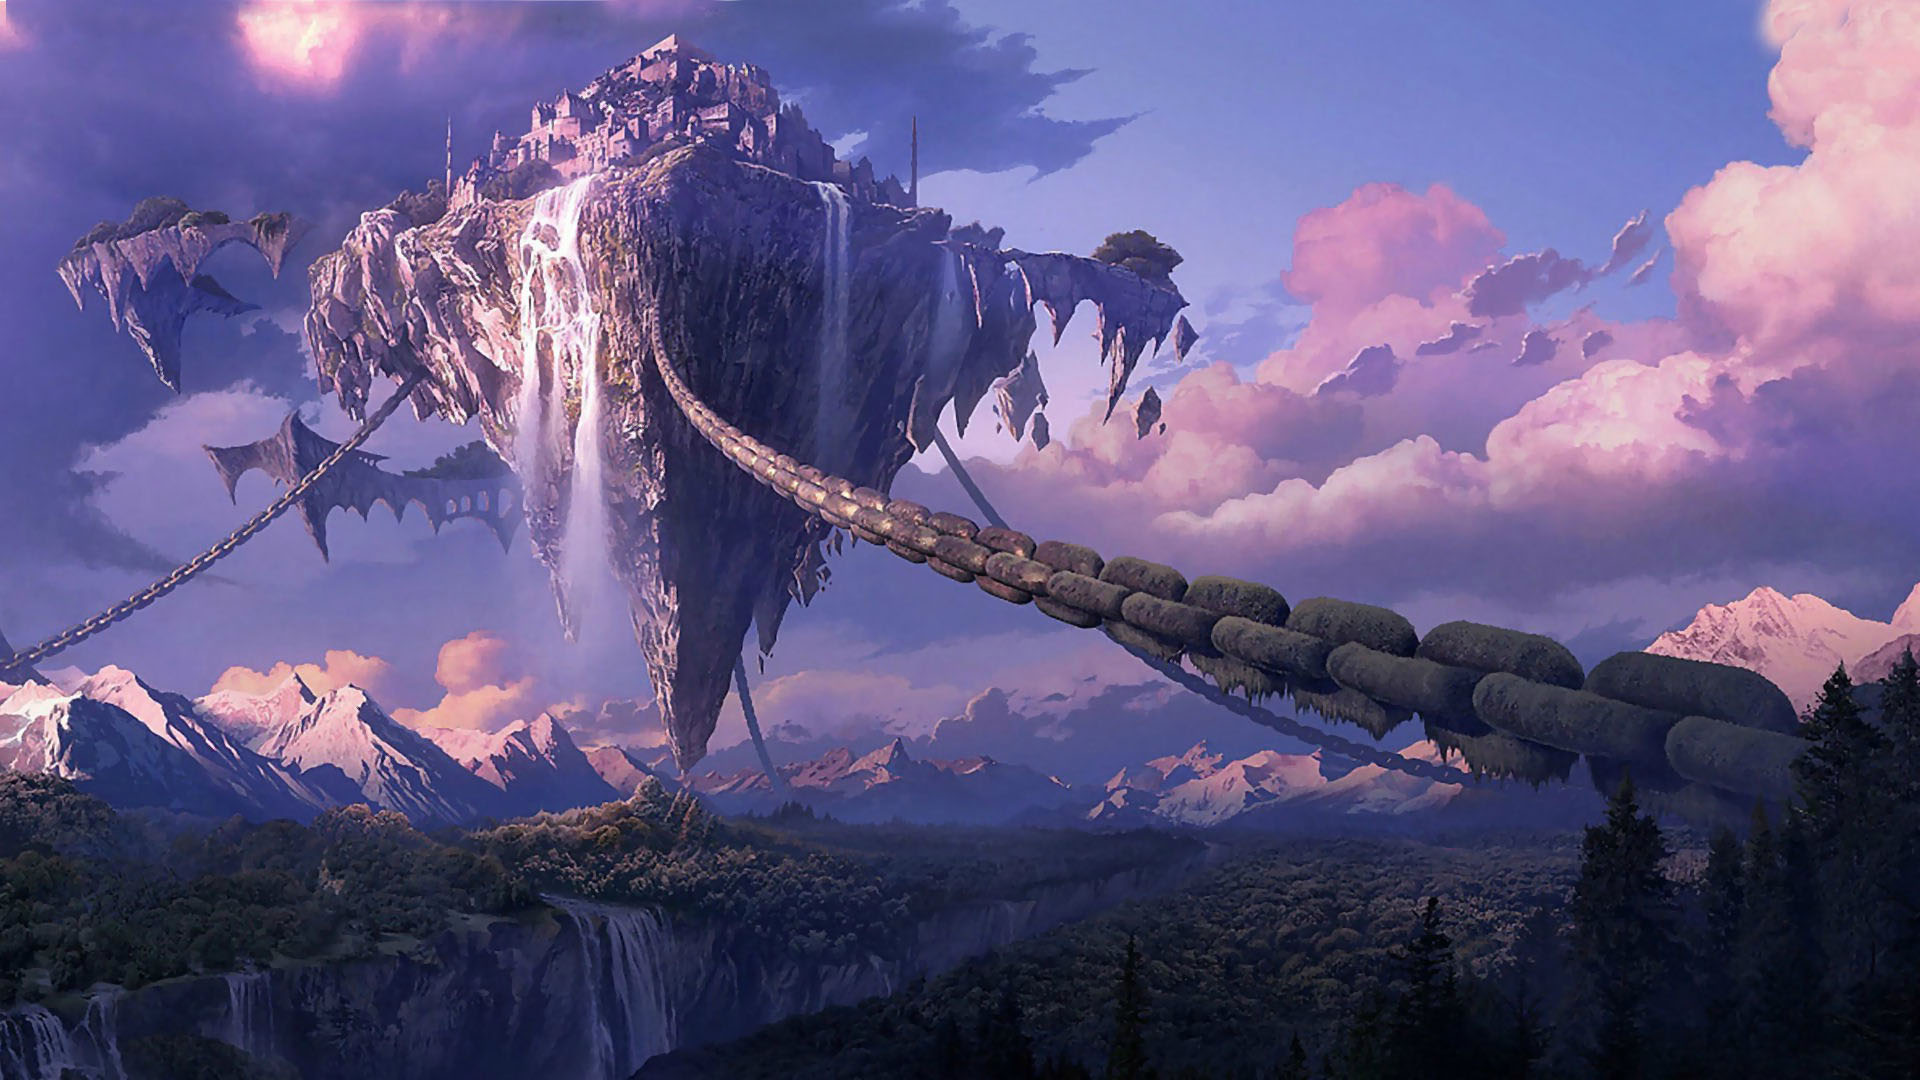
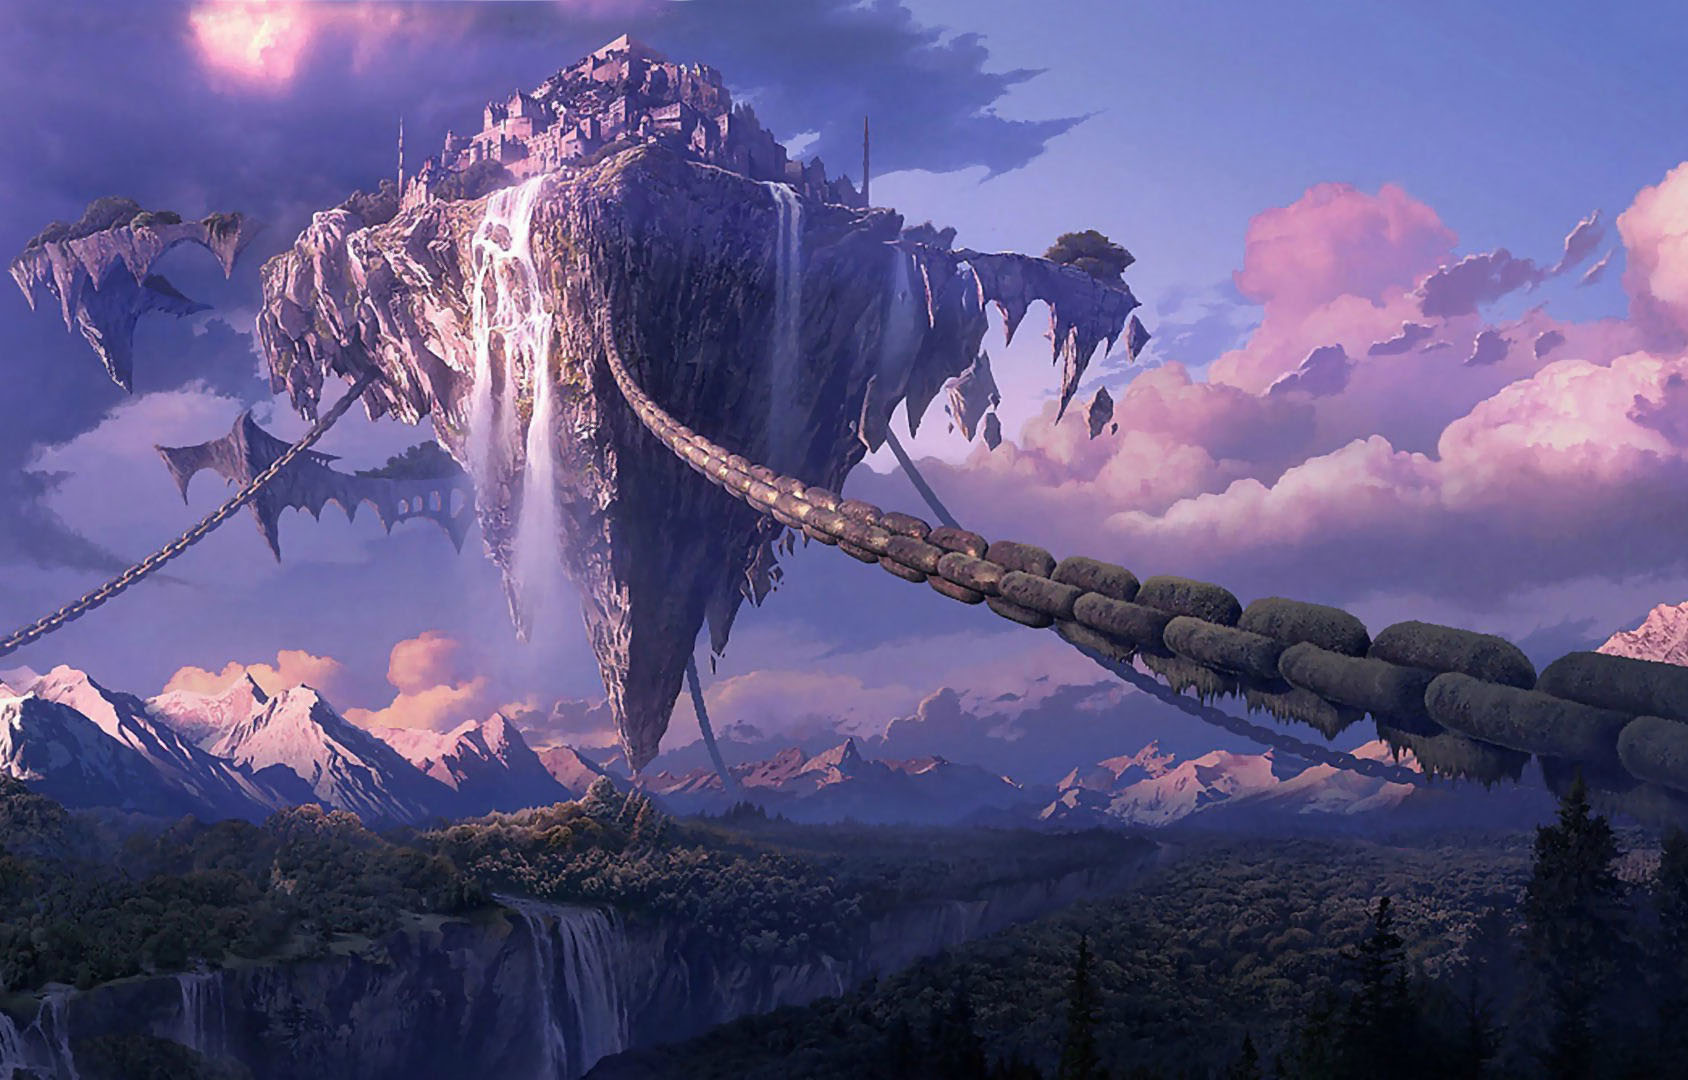
crop menu background image

diff --git a/fayousStateNOT/menuState.js b/fayousStateNOT/menuState.js
@@ -1,6 +1,8 @@
 var menuState = {
 	create: function() {
-		game.add.image(0, 0, 'menuBackground');
+		var bgImage = game.add.sprite(0, 0, 'menuBackground');
+		bgImage.width = game.width;
+		bgImage.height = game.height;
 
 		var nameLabel = game.add.text(game.width/2, 100, 'Plague Exodus', {font: '50px Helvetica', fill: '#ffffff'});
 		nameLabel.anchor.setTo(0.5, 0.5);
@@ -21,7 +23,7 @@ var menuState = {
 		this.bgMusic.loop = true;
 		this.bgMusic.play();
 
-		
+
 	},
 
 	start: function () {
